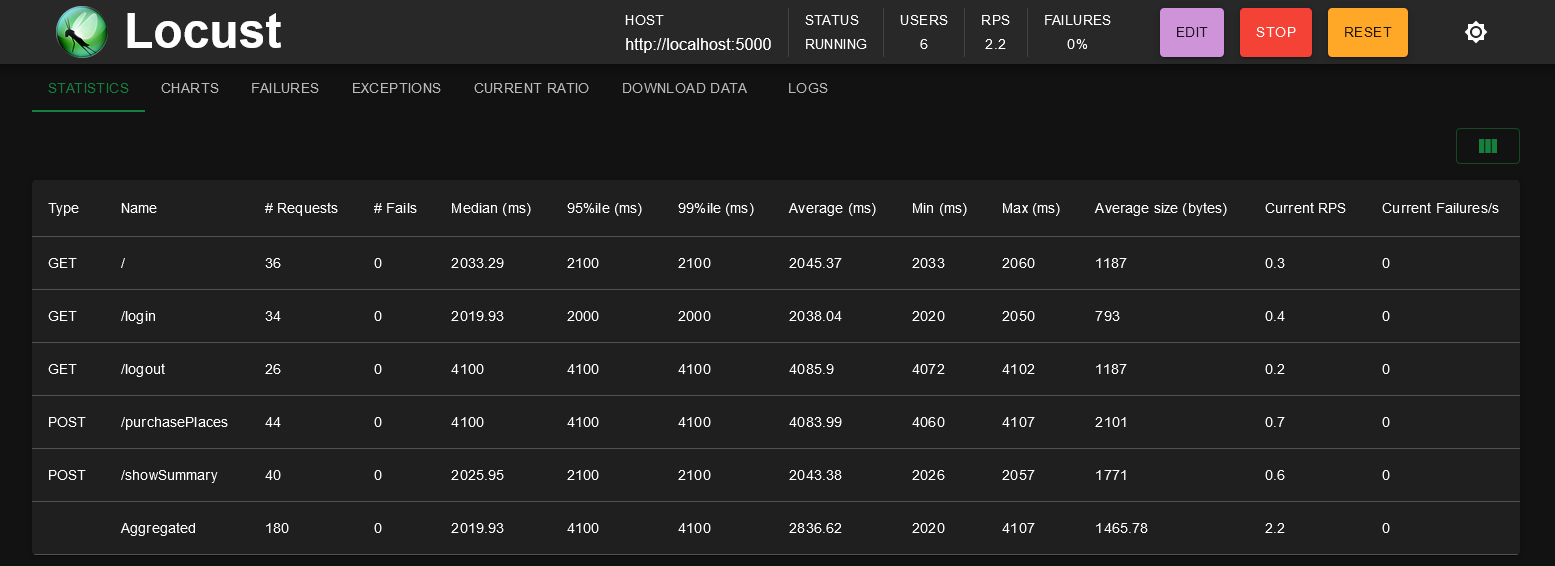
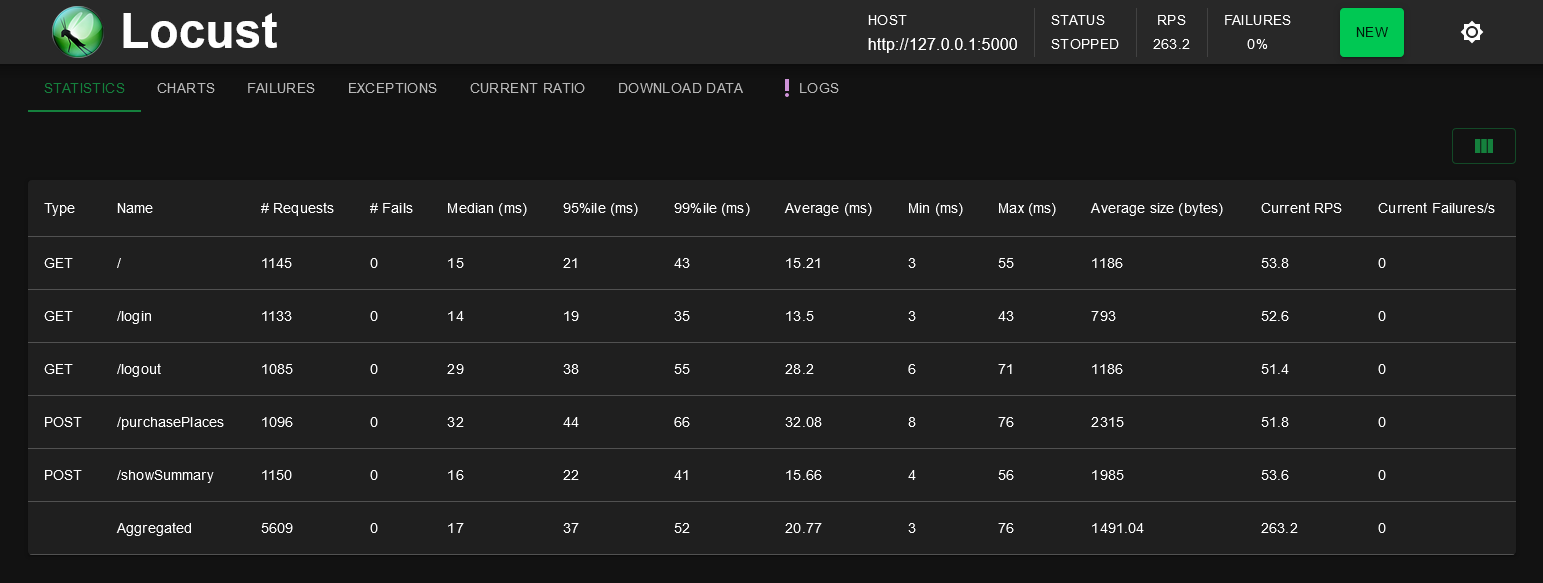
Modif. host locustfile - improve performances

diff --git a/gudlift_reservation/tests/performance_tests/locustfile.py b/gudlift_reservation/tests/performance_tests/locustfile.py
@@ -2,7 +2,7 @@ from locust import HttpUser, between, task
 
 
 class PerfTest(HttpUser):
-    # wait_time = between(1, 3)
+    wait_time = between(1, 2)
 
     @task
     def index(self):
